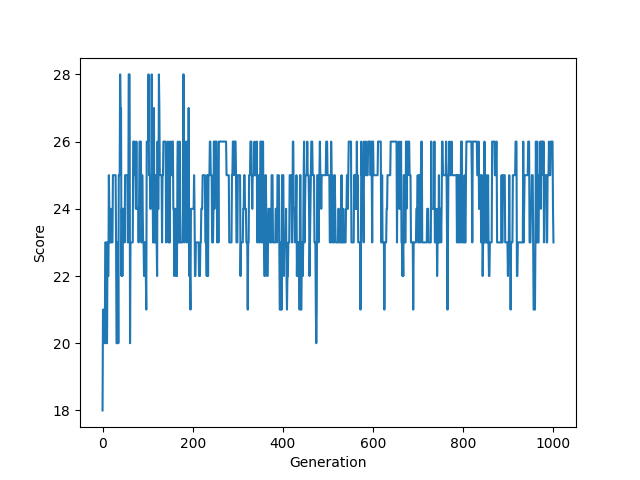
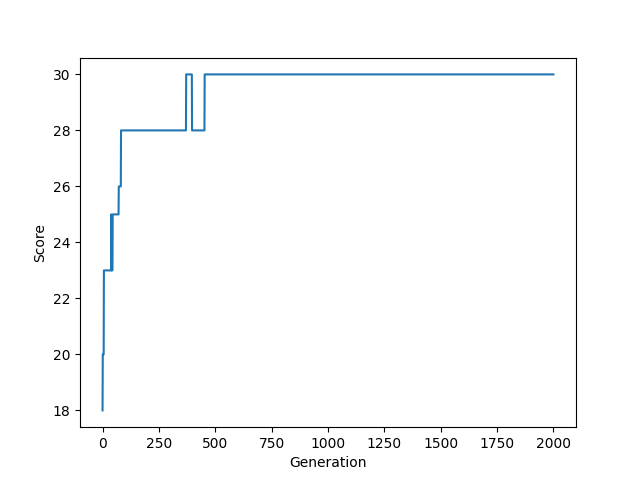
ga

diff --git a/genetic/func.py b/genetic/func.py
@@ -3,18 +3,18 @@ import numpy as np, random, operator, pandas as pd, matplotlib.pyplot as plt , n
 class Fitness:
     def __init__(self, route , turns_left , position , problem):
         self.problem = problem
-        self.route = route
+        self.route = route.copy()
         self.turns_left = turns_left
         self.position = position
         self.currentScore = 0
         self.score = 0
-        self.fitness= 0.0
+
     
     def routeScore(self):
         if self.score ==0:
             i = 0
             while self.turns_left >= 0 and  self.route:
-                nextPosition = self.route[i]
+                nextPosition = self.route.pop(0)
                 if i % 2 == 0 :
                     x , y , s  = nextPosition
                     self.currentScore = s
@@ -34,9 +34,9 @@ class Fitness:
         return self.score
         
     def routeFitness(self):
-        if self.fitness == 0:
-            self.fitness = float(self.routeScore())
-        return self.fitness
+        if self.score == 0:
+            self.score = self.routeScore()
+        return self.score
 
 def parsMap(map , pop):
     gemList =[]
@@ -179,16 +179,16 @@ def mutate(individual, mutationRate):
     for swapped in range(len(individual)):
         if(random.random() < mutationRate):
             if swapped % 2 == 0 :
-                swapWith = int(random.randrange(0 , len(individual) - 1 , 2))
+                swapWith = random.randrange(0 , len(individual) - 1 , 2)
             else:
-                swapWith = int(random.randrange(1 , len(individual) - 1 , 2))
+                swapWith = random.randrange(1 , len(individual) - 1 , 2)
             
             
-            city1 = individual[swapped]
-            city2 = individual[swapWith]
+            node1 = individual[swapped]
+            node2 = individual[swapWith]
             
-            individual[swapped] = city2
-            individual[swapWith] = city1
+            individual[swapped] = node2
+            individual[swapWith] = node1
     return individual
 
 def nextGeneration(currentGen, eliteSize, mutationRate , turns_left , position , problem):

diff --git a/local.py b/local.py
@@ -32,12 +32,12 @@ class Agent(BaseAgent):
         #     return Action.RIGHT
         # return random.choice(list(Action))
         problem = func.problem(turn_data.map)
-        initialPopulation = func.parsMap(turn_data.map , 50)
+        initialPopulation = func.parsMap(turn_data.map , 100)
         progress = []
         progress.append(func.rankRoutes(initialPopulation, turn_data.turns_left , turn_data.agent_data[0].position , problem)[0][1])
 
-        for i in range(0, 1000):
-            initialPopulation = func.nextGeneration(initialPopulation, 10, 0.01 , turn_data.turns_left , turn_data.agent_data[0].position , problem)
+        for i in range(0, 2000):
+            initialPopulation = func.nextGeneration(initialPopulation, 20, 0.005 , turn_data.turns_left , turn_data.agent_data[0].position , problem)
             generationScore = func.rankRoutes(initialPopulation, turn_data.turns_left , turn_data.agent_data[0].position , problem)[0][1]
             progress.append(generationScore)
     
